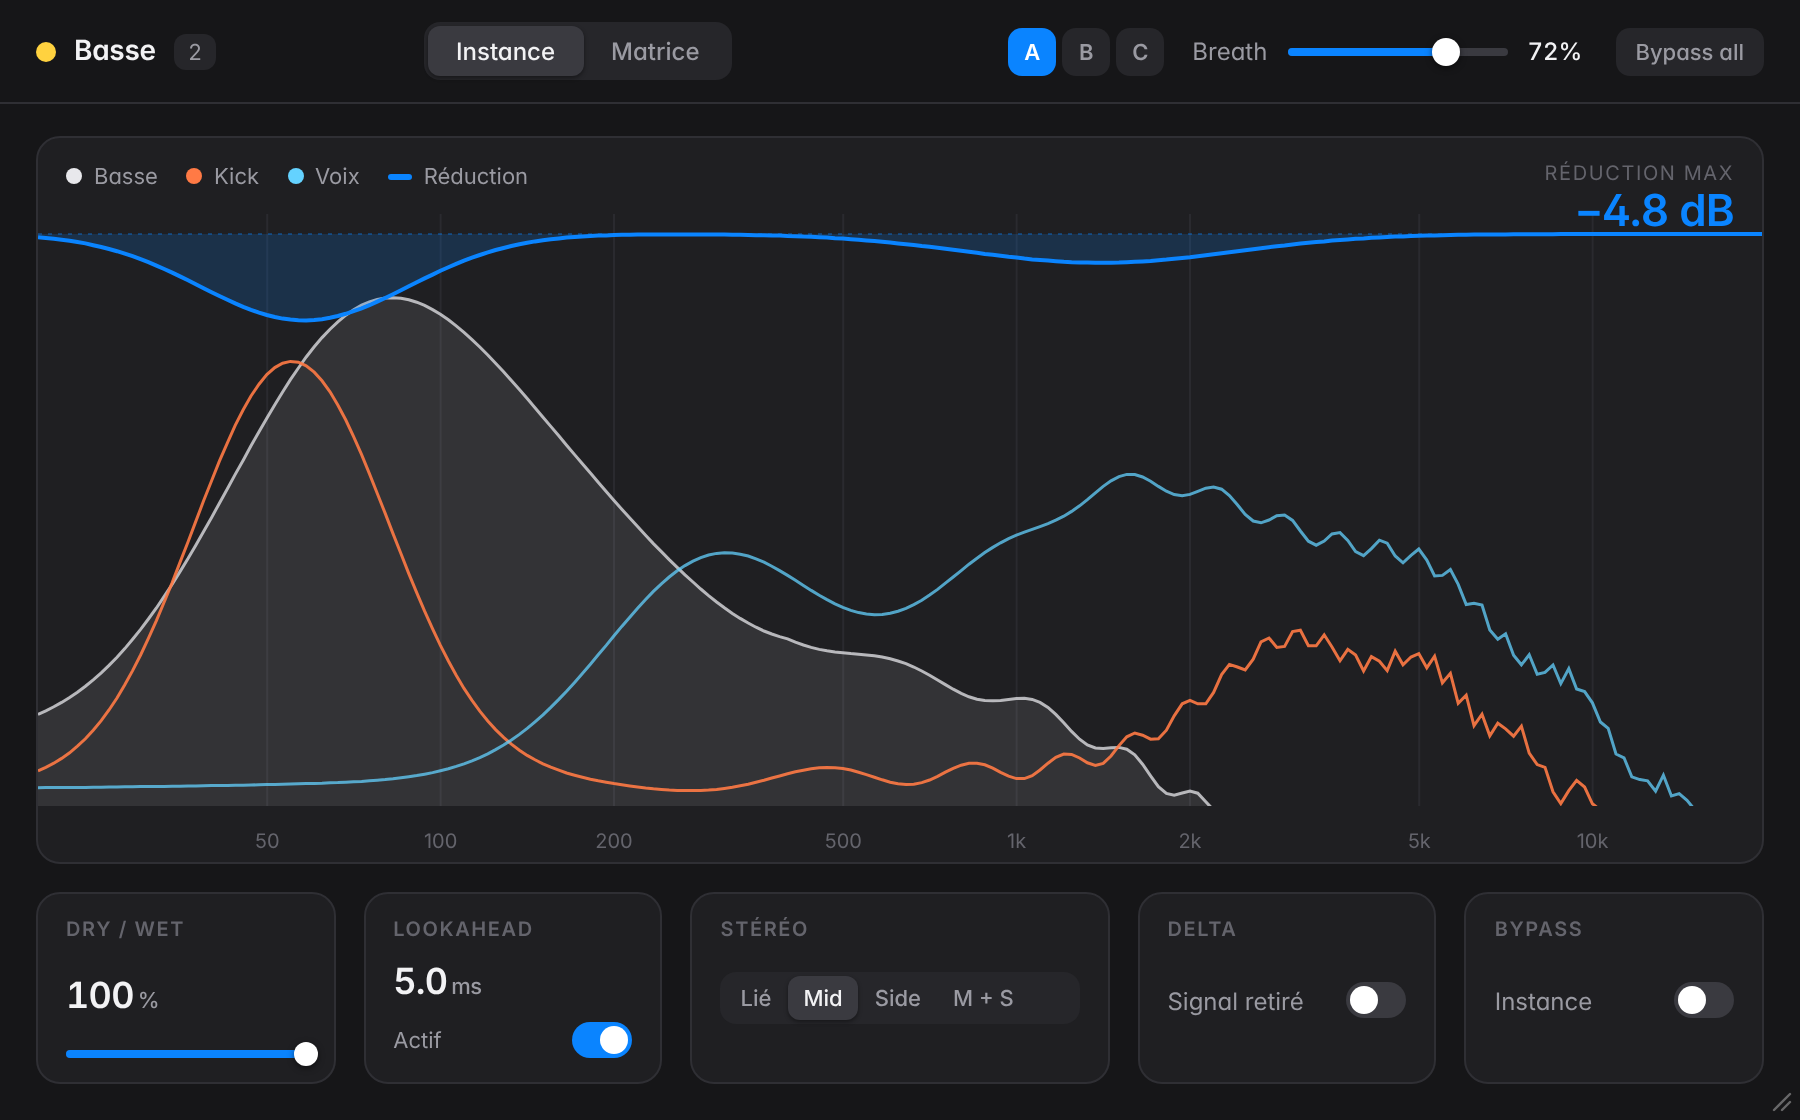
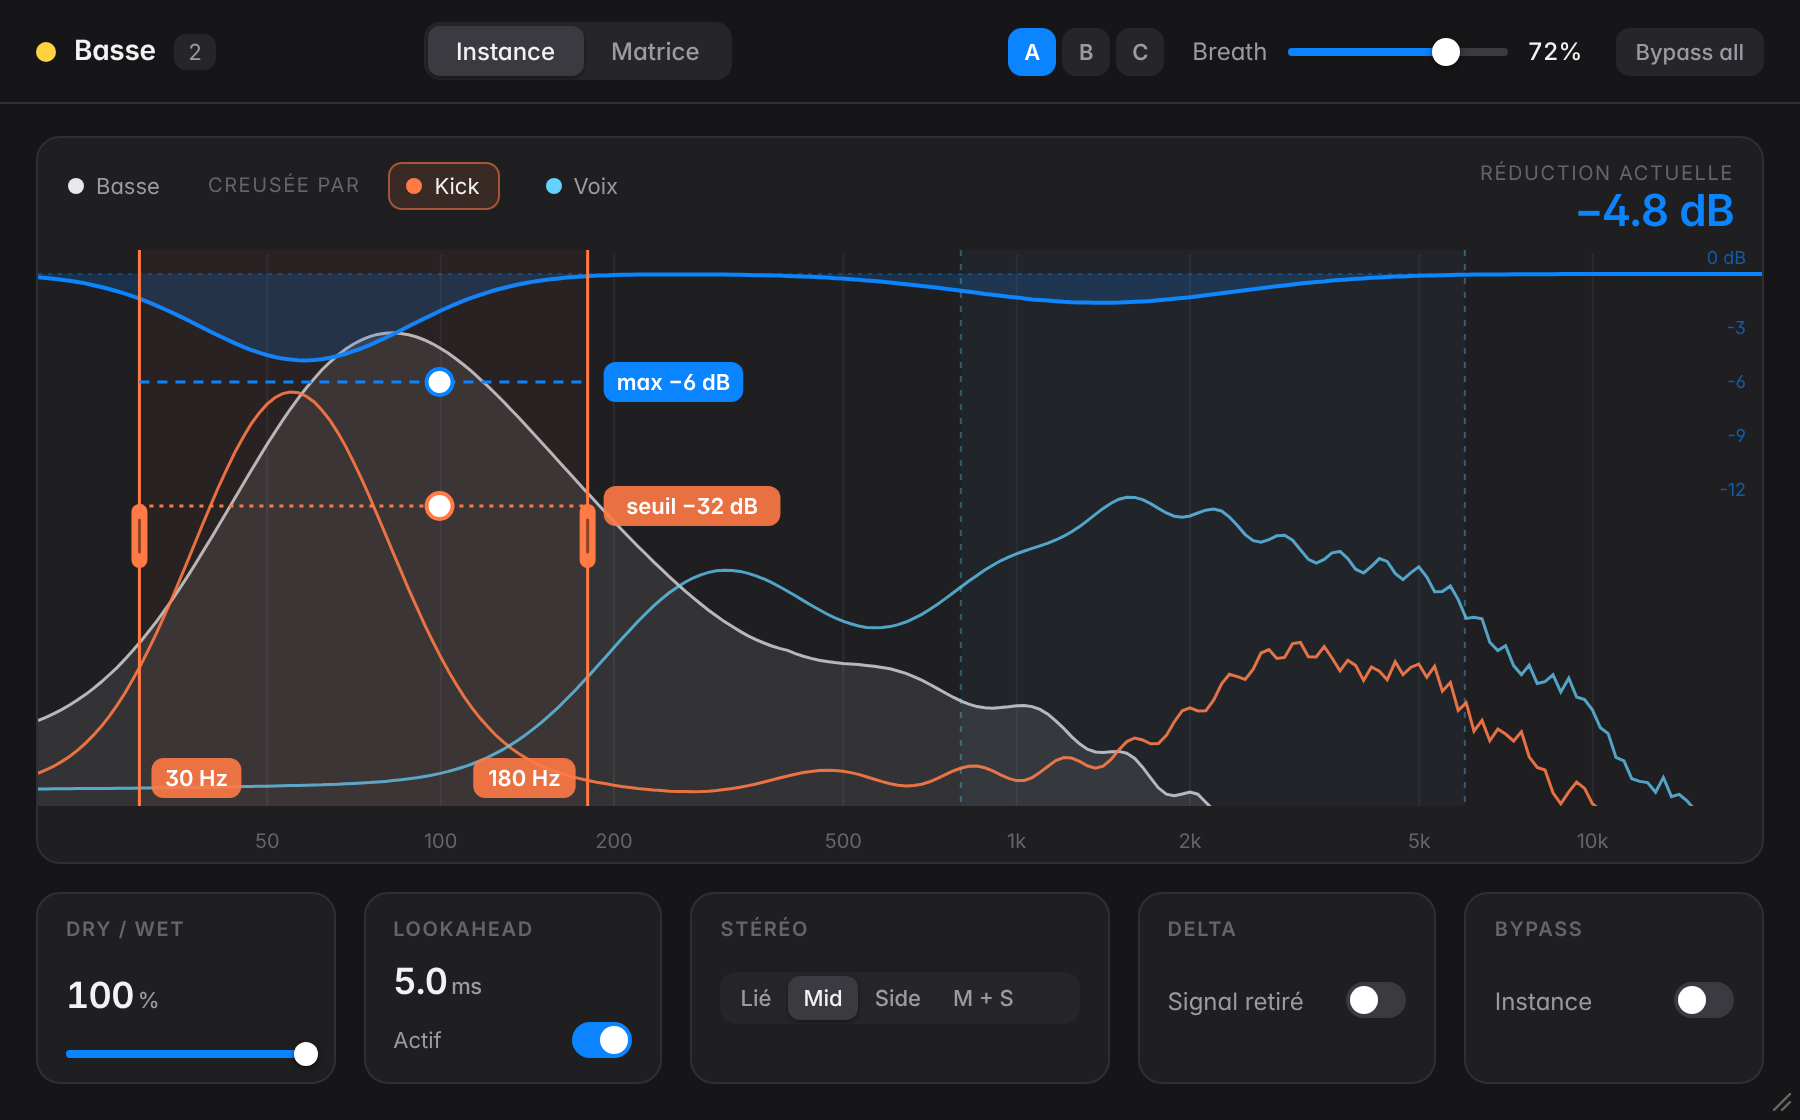
Mockup: graphical relation editing (range, max reduction, threshold) in Instance view
Claude-Session: https://claude.ai/code/session_01VJ4H4253qSBJxRZ85gMC7i

diff --git a/docs/mockups/breath-ui.html b/docs/mockups/breath-ui.html
@@ -39,6 +39,11 @@
   .legend{position:absolute;top:12px;left:14px;display:flex;gap:14px;font-size:11px;color:var(--text2)}
   .legend span{display:flex;align-items:center;gap:6px}
   .legend i{width:8px;height:8px;border-radius:50%}
+  .legend{align-items:center}
+  .chip{padding:4px 9px 4px 8px;border-radius:7px;border:1px solid transparent}
+  .chip.sel{background:rgba(255,122,69,.12);border-color:rgba(255,122,69,.55);color:var(--text)}
+  .chip.self{padding-left:0}
+  .sep{color:var(--text3);font-size:10px;text-transform:uppercase;letter-spacing:.08em}
   .gr{position:absolute;top:12px;right:14px;text-align:right}
   .gr .big{font-size:22px;font-weight:600;letter-spacing:-.02em;font-variant-numeric:tabular-nums;color:var(--accent)}
   .gr .lbl{font-size:10px;color:var(--text3);text-transform:uppercase;letter-spacing:.08em}
@@ -107,12 +112,12 @@
     <div class="card viz">
       <svg id="spec" width="862" height="300" style="position:absolute;inset:0"></svg>
       <div class="legend">
-        <span><i style="background:#e8e8ec"></i>Basse</span>
-        <span><i style="background:var(--kick)"></i>Kick</span>
-        <span><i style="background:var(--voc)"></i>Voix</span>
-        <span><i style="background:var(--accent);border-radius:2px;height:3px;width:12px"></i>Réduction</span>
+        <span class="chip self"><i style="background:#e8e8ec"></i>Basse</span>
+        <span class="sep">creusée par</span>
+        <span class="chip sel"><i style="background:var(--kick)"></i>Kick</span>
+        <span class="chip"><i style="background:var(--voc)"></i>Voix</span>
       </div>
-      <div class="gr"><div class="lbl">Réduction max</div><div class="big">−4.8 dB</div></div>
+      <div class="gr"><div class="lbl">Réduction actuelle</div><div class="big">−4.8 dB</div></div>
     </div>
     <div class="controls">
       <div class="card ctl"><div class="t">Dry / Wet</div><div class="v">100<small>%</small></div><div class="sl" style="margin:0"><i style="width:100%"></i><b style="left:100%"></b></div></div>
@@ -169,7 +174,7 @@
 
 <script>
 // ---------- Spectre (vue Instance) ----------
-const svg=document.getElementById("spec"), box=svg.parentElement.getBoundingClientRect(), W=box.width, H=box.height, T0=44, bot=H-30;
+const svg=document.getElementById("spec"), box=svg.parentElement.getBoundingClientRect(), W=box.width, H=box.height, T0=64, bot=H-30;
 svg.setAttribute("width",W);svg.setAttribute("height",H);
 const cp=document.createElementNS("http://www.w3.org/2000/svg","clipPath");cp.id="cp";cp.innerHTML=`<rect x="0" y="0" width="${W}" height="${H-30}"/>`;svg.appendChild(cp);
 const ns='http://www.w3.org/2000/svg';
@@ -206,6 +211,35 @@ el('path',{d:path(pr),fill:'none',stroke:'#0a84ff','stroke-width':2});
 el('line',{x1:0,x2:W,y1:zero,y2:zero,stroke:'rgba(10,132,255,0.35)','stroke-width':1,'stroke-dasharray':'2 3'});
 
 clipAll();
+// ---------- Zones des relations + poignées ----------
+const pill=(x,y,txt,col,anchor)=>{const w=txt.length*6.2+14;const bx=anchor==='end'?x-w:anchor==='middle'?x-w/2:x;
+  el('rect',{x:bx,y:y-10,width:w,height:20,rx:6,fill:col});
+  const t=el('text',{x:bx+w/2,y:y+4,'text-anchor':'middle','font-size':11,'font-weight':600,fill:'#fff','font-family':'Inter'});t.textContent=txt;};
+// Voix (non sélectionnée) : zone discrète
+const vx0=fx(800), vx1=fx(6000);
+el('rect',{x:vx0,y:T0-8,width:vx1-vx0,height:bot-T0+8,fill:'rgba(100,210,255,0.035)'});
+[vx0,vx1].forEach(x=>el('line',{x1:x,x2:x,y1:T0-8,y2:bot,stroke:'rgba(100,210,255,0.35)','stroke-width':1,'stroke-dasharray':'3 4'}));
+// Kick (sélectionnée) : zone + bords + poignées
+const kx0=fx(30), kx1=fx(180);
+el('rect',{x:kx0,y:T0-8,width:kx1-kx0,height:bot-T0+8,fill:'rgba(255,122,69,0.045)'});
+[kx0,kx1].forEach(x=>{el('line',{x1:x,x2:x,y1:T0-8,y2:bot,stroke:'#ff7a45','stroke-width':1.5});
+  el('rect',{x:x-4,y:(T0+bot)/2-16,width:8,height:32,rx:4,fill:'#ff7a45'});
+  el('line',{x1:x,x2:x,y1:(T0+bot)/2-8,y2:(T0+bot)/2+8,stroke:'rgba(0,0,0,.45)','stroke-width':1.5,'stroke-linecap':'round'});});
+pill(kx0+6,bot-14,'30 Hz','rgba(255,122,69,.9)','start');
+pill(kx1-6,bot-14,'180 Hz','rgba(255,122,69,.9)','end');
+// Réduction max : ligne bleue réglable (dans la zone)
+const ymax=zero+6*9;
+el('line',{x1:kx0,x2:kx1,y1:ymax,y2:ymax,stroke:'#0a84ff','stroke-width':1.5,'stroke-dasharray':'5 4'});
+el('circle',{cx:(kx0+kx1)/2+38,cy:ymax,r:6.5,fill:'#fff',stroke:'#0a84ff','stroke-width':2});
+pill(kx1+8,ymax,'max −6 dB','#0a84ff','start');
+// Seuil : ligne orange sur l'échelle du spectre
+const yth=dy(-32);
+el('line',{x1:kx0,x2:kx1,y1:yth,y2:yth,stroke:'#ff7a45','stroke-width':1.5,'stroke-dasharray':'2 3'});
+el('circle',{cx:(kx0+kx1)/2+38,cy:yth,r:6.5,fill:'#fff',stroke:'#ff7a45','stroke-width':2});
+pill(kx1+8,yth,'seuil −32 dB','rgba(255,122,69,.9)','start');
+// échelle de réduction (droite)
+[0,-3,-6,-9,-12].forEach(d=>{const y=zero+(-d)*9;const t=el('text',{x:W-10,y:d===0?y-5:y+3,'text-anchor':'end','font-size':9,fill:'rgba(10,132,255,.6)','font-family':'Inter'});t.textContent=d===0?'0 dB':d;});
+
 // ---------- Matrice ----------
 const tracks=[['Kick','--kick'],['Basse','--bass'],['Voix','--voc'],['Synth','--synth'],['Pad','--pad']];
 // valeurs de réduction (dB) : ligne = piste creusée, colonne = piste qui creuse ; null = relation désactivée
